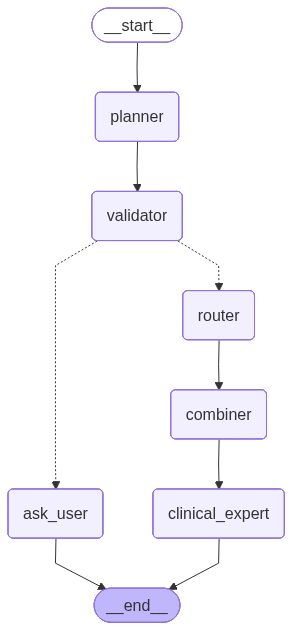
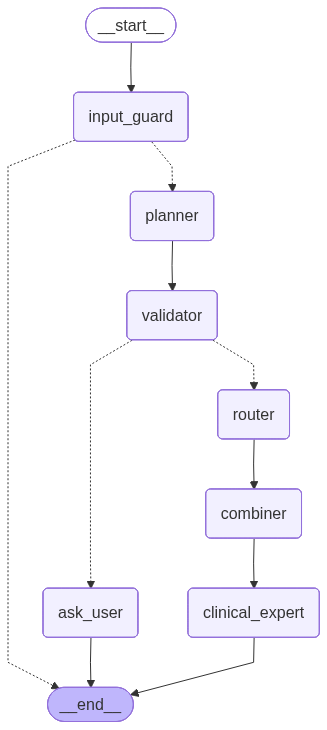
PI guard added, parallel routing

Changed region(s): [[0.2158, 0.0, 0.9863, 0.9048], [0.0, 0.2413, 0.7397, 0.9952], [0.6164, 0.0302, 0.6473, 0.0603]]

diff --git a/src/workflow.py b/src/workflow.py
@@ -1,3 +1,5 @@
+import asyncio
+
 from pydantic import BaseModel, Field
 
 from langgraph.checkpoint.memory import MemorySaver
@@ -6,6 +8,7 @@ from langgraph.graph import END, START, StateGraph
 from src.state import ClinicalAgentState
 from src.pipeline import rag_pipeline
 from src.mcp_client import search_and_fetch
+from src.guards import check_input
 
 
 # ---------- structured outputs for the LLM-only nodes ----------
@@ -68,6 +71,19 @@ def build_graph(llm, dt_skill_text: str = ""):
     validator_llm = llm.with_structured_output(ValidatorOutput)
     expert_llm = llm.with_structured_output(ClinicalExpertOutput)
 
+    async def input_guard(state: ClinicalAgentState):
+        text = state["messages"][-1].content
+        ok, scores = check_input(text)
+        if not ok:
+            print(f"[GUARD] Blocked input | scores={scores}")
+            msg = "Sorry, I can't process that request."
+            return {
+                "final_response": msg,
+                "messages": [{"role": "assistant", "content": msg}],
+                "blocked": True,
+            }
+        return {"blocked": False}
+
     async def planner(state: ClinicalAgentState):
         result = planner_llm.invoke(
             [{"role": "system", "content": PLANNER_PROMPT}] + state["messages"]
@@ -90,18 +106,19 @@ def build_graph(llm, dt_skill_text: str = ""):
         msg = f"To look up the prior-authorization guidelines, I still need: {fields}. Could you provide that?"
         return {"final_response": msg, "messages": [{"role": "assistant", "content": msg}]}
 
+    async def run_one(sq: dict):
+        query, qtype = sq["query"], sq["type"]
+        if qtype == "chat":
+            answer = await llm.ainvoke([{"role": "user", "content": query}])
+            return query, answer.content
+        raw_texts = await search_and_fetch(query)
+        docs = await rag_pipeline.ainvoke({"user_query": query, "raw_texts": raw_texts})
+        return query, "\n\n".join(getattr(d, "page_content", str(d)) for d in docs)
+
     async def router(state: ClinicalAgentState):
-        tool_results = {}
-        for sq in state["sub_queries"]:
-            query, qtype = sq["query"], sq["type"]
-            if qtype == "chat":
-                answer = llm.invoke([{"role": "user", "content": query}])
-                tool_results[query] = answer.content
-            else:
-                raw_texts = await search_and_fetch(query)
-                docs = await rag_pipeline.ainvoke({"user_query": query, "raw_texts": raw_texts})
-                tool_results[query] = "\n\n".join(getattr(d, "page_content", str(d)) for d in docs)
-        return {"tool_results": tool_results}
+        # Run all sub-queries (chat + rag/hybrid) concurrently instead of sequentially.
+        pairs = await asyncio.gather(*[run_one(sq) for sq in state["sub_queries"]])
+        return {"tool_results": dict(pairs)}
 
     async def combiner(state: ClinicalAgentState):
         combined = "\n\n".join(f"Q: {q}\n{a}" for q, a in state["tool_results"].items())
@@ -126,7 +143,11 @@ def build_graph(llm, dt_skill_text: str = ""):
     def route_after_validation(state: ClinicalAgentState):
         return "ask_user" if state.get("missing_info") else "router"
 
+    def route_after_guard(state: ClinicalAgentState):
+        return END if state.get("blocked") else "planner"
+
     workflow = StateGraph(ClinicalAgentState)
+    workflow.add_node("input_guard", input_guard)
     workflow.add_node("planner", planner)
     workflow.add_node("validator", validator)
     workflow.add_node("ask_user", ask_user)
@@ -134,7 +155,8 @@ def build_graph(llm, dt_skill_text: str = ""):
     workflow.add_node("combiner", combiner)
     workflow.add_node("clinical_expert", clinical_expert)
 
-    workflow.add_edge(START, "planner")
+    workflow.add_edge(START, "input_guard")
+    workflow.add_conditional_edges("input_guard", route_after_guard, ["planner", END])
     workflow.add_edge("planner", "validator")
     workflow.add_conditional_edges("validator", route_after_validation, ["ask_user", "router"])
     workflow.add_edge("ask_user", END)

diff --git a/src/guards.py b/src/guards.py
@@ -1,0 +1,20 @@
+from llm_guard import scan_prompt
+from llm_guard.input_scanners import PromptInjection, Toxicity
+
+_scanners = None
+
+
+def _get_scanners():
+    global _scanners
+    if _scanners is None:
+        _scanners = [PromptInjection(), Toxicity()]
+    return _scanners
+
+
+def check_input(text: str) -> tuple[bool, dict]:
+    """Scan user input for prompt injection / toxicity.
+
+    Returns (is_safe, scores). is_safe is False if any scanner flags the input.
+    """
+    _, valid, scores = scan_prompt(_get_scanners(), text)
+    return all(valid.values()), scores

diff --git a/src/state.py b/src/state.py
@@ -11,3 +11,4 @@ class ClinicalAgentState(TypedDict):
     tool_results: dict        # {sub_query_text: result_text}
     final_response: str
     needs_dt: bool
+    blocked: bool             # True if input_guard rejected the message

diff --git a/README.md b/README.md
@@ -1,6 +1,33 @@
-# Agentic RAG
+# Agentic RAG — Clinical Chat Agent
 
-A modular Retrieval-Augmented Generation pipeline with an agentic LangGraph workflow and a Gradio chat UI.
+A LangGraph clinical chat agent that answers general clinical questions directly and
+prior-authorization (PA) guideline questions via RAG, with sources discovered dynamically
+through MCP web-search servers (no documents downloaded/committed ahead of time).
+
+## Graph
+
+![graph](graph.png)
+
+| Node | Role |
+|---|---|
+| `input_guard` | LLM Guard scan (`PromptInjection`, `Toxicity`) — blocks unsafe input before anything else runs. |
+| `planner` | Splits the message into sub-queries, tagged `chat` / `rag` / `hybrid`. |
+| `validator` | For `rag`/`hybrid` sub-queries, checks the conversation has payer name, code/symptom, and LOB. |
+| `ask_user` | If info is missing, asks for it and ends the turn (resumes via memory on the next message). |
+| `router` | Runs all sub-queries **concurrently** (`asyncio.gather`) — `chat` → direct LLM, `rag`/`hybrid` → MCP search+fetch → `rag_pipeline`. |
+| `combiner` | Merges all sub-query results into one draft answer. |
+| `clinical_expert` | Decides a normal answer vs. a prior-auth decision tree (per `DT_SKILL.md`). |
+
+Regenerate the diagram after changing `src/workflow.py`:
+
+```bash
+uv run python -c "
+from config import llm
+from src.workflow import build_graph
+graph = build_graph(llm, dt_skill_text=open('DT_SKILL.md').read())
+graph.get_graph().draw_mermaid_png(output_file_path='graph.png')
+"
+```
 
 ## Architecture
 
@@ -10,10 +37,16 @@ src/
 ├── chunking.py     # Recursive or semantic chunking
 ├── vectorstore.py  # Chroma, FAISS, or raw ChromaDB collection
 ├── retrieval.py    # MMR retrieval (LangChain + custom implementation)
-├── pipeline.py     # End-to-end RAG pipeline function
-└── workflow.py     # LangGraph agent + retrieval tool
-config.py           # LLM and embedder initialisation
-app.py              # Gradio chat interface (entry point)
+├── reranker.py      # Cross-encoder reranking
+├── pipeline.py      # End-to-end RAG pipeline (rag_pipeline tool)
+├── state.py         # ClinicalAgentState (LangGraph state schema)
+├── guards.py         # LLM Guard input scan
+├── mcp_client.py     # Tavily search + fetch MCP client
+└── workflow.py       # LangGraph clinical agent graph
+config.py              # LLM and embedder initialisation
+mcp_config.json         # MCP server definitions (Tavily, fetch)
+DT_SKILL.md              # Decision-tree generation skill for clinical_expert
+app.py                    # Gradio chat interface (entry point)
 ```
 
 ## Setup
@@ -24,17 +57,21 @@ uv venv
 uv pip install -r requirements.txt
 ```
 
+Requires `npx` and `uvx` on `PATH` (used to spawn the Tavily and fetch MCP servers).
+
 ## Run
 
 ```bash
 uv run python app.py
 ```
 
-To stop: `Ctrl+C`. To restart, run the same command again.
+To stop: `Ctrl+C`. To restart, run the same command again. First guarded request downloads
+the LLM Guard scanner models (one-time latency).
 
 ## Data
 
-Place PDF files in the `Data/` folder. They are gitignored and never committed.
+Place PDF files in the `Data/` folder for the optional PDF-ingestion fallback. They are
+gitignored and never committed.
 
 ## Configuration
 
@@ -44,6 +81,7 @@ Place PDF files in the `Data/` folder. They are gitignored and never committed.
 | `OPENAI_API_BASE` | API base URL (defaults to OpenAI) |
 | `LLM_MODEL` | Chat model name (default: `gpt-4o-mini`) |
 | `EMBEDDING_MODEL` | Embedding model name (default: `text-embedding-ada-002`) |
+| `TAVILY_API_KEY` | Used by the Tavily MCP server for PA guideline web search |
 
 ## Vectorstore options
 